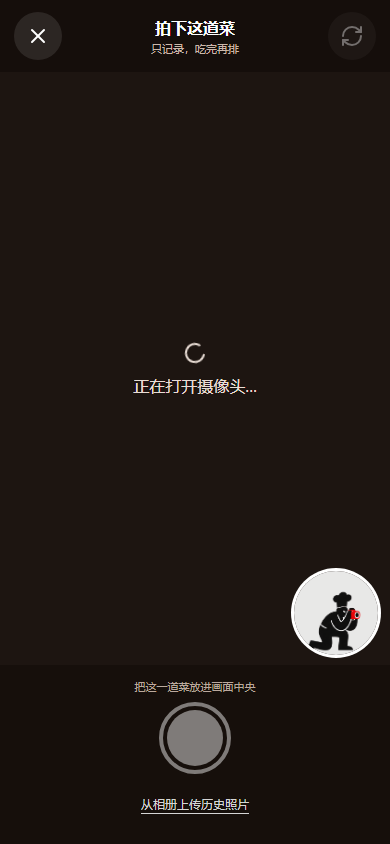
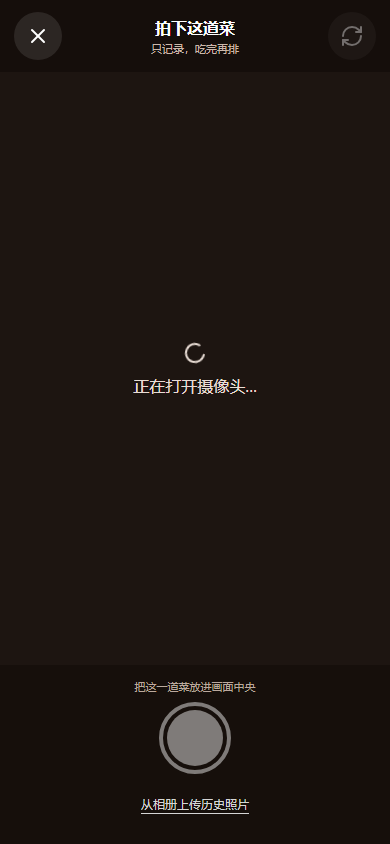
Remove miniature chef visuals

Changed region(s): [[0.7385, 0.6469, 0.9846, 0.8009]]

diff --git a/src/App.tsx b/src/App.tsx
@@ -28,7 +28,6 @@ import { useRegisterSW } from 'virtual:pwa-register/react'
 import { CameraCapture } from './components/CameraCapture'
 import { ImageCropper } from './components/ImageCropper'
 import { EntryDetail, type EntryContentChanges } from './components/EntryDetail'
-import { Mascot } from './components/Mascot'
 import { PhotoViewer } from './components/PhotoViewer'
 import { db, completeOnboarding, deleteEntry, friendlyStorageError, resetAllData, updateEntryContent } from './data/db'
 import { compressImageToWebP, readAsDataUrl, validateImageFile } from './lib/image'
@@ -132,7 +131,6 @@ function RecordHome({ draft, entries, onStart, onOpenCamera, onFile, onResume, o
   }, [onFile])
   return (
     <section>
-      <div className="section-mascot"><Mascot pose="camera" /></div>
       <PageHeader eyebrow="QUICK RECORD" title="拍下这道菜" description="只记录，吃完再排。" />
       <button className="capture-card" onClick={() => { onStart(); onOpenCamera() }} data-testid="start-record">
         <span className="capture-icon"><Camera size={30} /></span>
@@ -197,7 +195,6 @@ function SuggestionForm({ draft, busy, onChange, onBack, onConfirm }: {
     <section data-testid="suggestion-form">
       <button className="back-button" onClick={onBack}><ArrowLeft size={19} />返回</button>
       <div className="photo-hero compact"><img src={draft.image} alt="本次记录的美食" /></div>
-      <div className="ai-mascot"><Mascot pose="research" /></div>
       <div className="mock-badge"><Sparkles size={16} />{draft.providerLabel || 'AI 识别结果'} · 请核准</div>
       <PageHeader eyebrow="IDENTIFICATION REPORT" title={fields.name ? <>识别为：<span>{fields.name}</span></> : <>没有认准，请你定名</>} description="AI 负责辨认，不负责好不好吃。" />
       <div className="quick-form">
@@ -241,7 +238,6 @@ function ComparisonView({ draft, anchor, busy, onDecision }: {
         <span>最多 4 次</span>
       </div>
       <div className="progress-track"><span style={{ width: `${round * 25}%` }} /></div>
-      <div className="duel-mascots"><Mascot pose="left" /><Mascot pose="right" /></div>
       <PageHeader eyebrow={isBlack ? 'BLACK LIST VERDICT' : 'RED LIST VERDICT'} title="谁更值得留在前面？" description={isBlack ? '选择更该排在黑榜前面的那一道。' : '不打分，只做一次明确比较。'} />
       <div className="duel-grid">
         <button disabled={busy} className="food-choice" data-testid="choose-new" onClick={() => onDecision('left')}>
@@ -291,7 +287,6 @@ function ArchivePage({ entries, onDelete, onOpen, onViewPhoto }: { entries: Food
   const sorted = [...entries].sort((a, b) => b.occurredAt.localeCompare(a.occurredAt))
   return (
     <section>
-      <div className="section-mascot archive-mascot"><Mascot pose="waiting" /></div>
       <PageHeader eyebrow="FOOD ARCHIVE" title="我的食物档案" description={`${entries.length} 份在册记录 · 点击照片可放大`} />
       {sorted.length === 0 ? <EmptyState icon={Archive} title="还没有在册档案" body="提交第一张食物照片，建立标准记录。" /> : (
         <div className="timeline" data-testid="archive-list">
@@ -353,7 +348,7 @@ function RankingPage({ entries, groups, motion, onResume, onMove, onBestow, onSh
   return (
     <section data-testid="ranking-page" className={`editorial-ranking board-${board}`}>
       <header className="ranking-masthead">
-        <div className="ranking-brand"><Mascot pose="brand" /><div><strong>我的美食榜</strong><small>私人美食评审局</small></div></div>
+        <div className="ranking-brand"><div><strong>我的美食榜</strong><small>私人美食评审局</small></div></div>
         <b>{period === 'month' ? month.replace('-', '.') : period === 'year' ? year : 'LIFE'}</b>
       </header>
       <div className="board-switch" role="tablist" aria-label="红黑榜切换">
@@ -384,7 +379,7 @@ function RankingPage({ entries, groups, motion, onResume, onMove, onBestow, onSh
 
       {period !== 'life' && reportEntries.length > 0 && (
         <details className="taste-report" data-testid="taste-report">
-          <summary><span><small>{period === 'month' ? 'MONTHLY TASTE REPORT' : 'YEARLY TASTE REPORT'}</small><strong>{period === 'month' ? '本月味觉研究报告' : '年度味觉研究报告'}</strong></span><Mascot pose="report" /></summary>
+          <summary><span><small>{period === 'month' ? 'MONTHLY TASTE REPORT' : 'YEARLY TASTE REPORT'}</small><strong>{period === 'month' ? '本月味觉研究报告' : '年度味觉研究报告'}</strong></span></summary>
           <div className="report-bars">{reportGroups.map(([name, count]) => <div key={name}><span>{name}</span><i><b style={{ width: `${Math.max(8, Math.round(count / reportEntries.length * 100))}%` }} /></i><strong>{Math.round(count / reportEntries.length * 100)}%</strong></div>)}</div>
           <div className="report-stats"><div><strong>{reportEntries.length}</strong><span>道在榜</span></div><div><strong>{reportGroups.length}</strong><span>类味觉</span></div><div><strong>{Math.min(10, reportEntries.length)}</strong><span>道入十席</span></div></div>
         </details>
@@ -393,7 +388,6 @@ function RankingPage({ entries, groups, motion, onResume, onMove, onBestow, onSh
       {pending.length > 0 && (
         <div className="review-queue" data-testid="pending-list">
           <div><p className="eyebrow">AWAITING VERDICT</p><h2>{pending.length} 份记录等待裁定</h2></div>
-          <Mascot pose="waiting" className="queue-mascot" />
           {pending.map((entry) => (
             <article key={entry.id} className="review-card">
               <img src={entry.image} alt={entry.name} />
@@ -448,7 +442,7 @@ function BestowCeremony({ entry, rank, onClose, onConfirm }: {
     <section className="bestow-screen" data-testid="bestow-screen">
       <button className="bestow-close" onClick={onClose} aria-label="关闭赐名"><X /></button>
       <div className="bestow-index">TOP 10 / NO.{String(rank).padStart(2, '0')}</div>
-      <div className="bestow-heading"><Mascot pose="name" /><div><small>赐名仪式</small><strong>此味已入十席</strong></div></div>
+      <div className="bestow-heading"><div><small>赐名仪式</small><strong>此味已入十席</strong></div></div>
       <img src={entry.image} alt={entry.aiName || entry.name} />
       <p className="bestow-standard">STANDARD NAME<br /><strong>{entry.name}</strong></p>
       <div className="bestow-rule" />
@@ -470,7 +464,7 @@ function RankingCeremony({ board, rank, name, onClose }: { board: RankingBoard; 
   }, [rank, onClose])
   return (
     <div className={`ranking-ceremony ${board} ${level}`} data-testid="ranking-ceremony" role="dialog" aria-modal="true" aria-labelledby="ranking-ceremony-title" aria-describedby="ranking-ceremony-name">
-      {rank === 1 && <><div className="ceremony-scan" /><div className="ceremony-halo halo-one" /><div className="ceremony-halo halo-two" /><div className={`leader-emblem ${board}`} aria-hidden="true"><i /><i /><i /></div><Mascot pose={board === 'red' ? 'crown' : 'verdict'} className="ceremony-mascot" /><div className="apex-label">OFFICIAL CHANGE OF NO.01</div></>}
+      {rank === 1 && <><div className="ceremony-scan" /><div className="ceremony-halo halo-one" /><div className="ceremony-halo halo-two" /><div className={`leader-emblem ${board}`} aria-hidden="true"><i /><i /><i /></div><div className="apex-label">OFFICIAL CHANGE OF NO.01</div></>}
       <div className="ceremony-rule" />
       <span>{board === 'red' ? 'RED LIST VERDICT' : 'BLACK LIST VERDICT'}</span>
       <strong className="ceremony-rank">{String(rank).padStart(2, '0')}</strong>
@@ -501,7 +495,6 @@ function ProfilePage({ entries, events, onExport, onClear, onLoadDemo }: {
   const medianComparisons = median(completed.flatMap((event) => event.comparisonCount === undefined ? [] : [event.comparisonCount]))
   return (
     <section>
-      <div className="section-mascot"><Mascot pose="report" /></div>
       <PageHeader eyebrow="TASTE RESEARCH" title="我的味觉研究" description="只统计本机档案，不提供大众口味结论。" />
       <div className="dna-card">
         {dna.length === 0 ? <p>记录几道味道后，这里会长出你的味觉组成。</p> : dna.map((item, index) => (

diff --git a/src/styles.css b/src/styles.css
@@ -472,24 +472,14 @@ body { color: var(--charcoal); background: var(--paper); }
   *, *::before, *::after { scroll-behavior: auto !important; animation-duration: .01ms !important; animation-iteration-count: 1 !important; transition-duration: .01ms !important; }
 }
 
-/* Phase 1.2 · Miniature Chef Tribe */
-.chef-mascot { display: inline-block; width: 92px; aspect-ratio: 1; flex: 0 0 auto; background-repeat: no-repeat; background-size: 400% 300%; }
-.section-mascot { height: 72px; display: flex; justify-content: flex-end; margin-bottom: -54px; pointer-events: none; }
-.section-mascot .chef-mascot { width: 82px; }
-.ai-mascot { height: 72px; display: flex; justify-content: flex-end; margin: -12px 4px -45px 0; pointer-events: none; }
-.ai-mascot .chef-mascot { width: 88px; }
-.duel-mascots { height: 42px; display: flex; justify-content: space-between; margin: -8px 8% -30px; pointer-events: none; }
-.duel-mascots .chef-mascot { width: 88px; }
-.camera-mascot { position: absolute; z-index: 3; right: 12px; bottom: 10px; width: 84px; border-radius: 50%; background-color: rgba(255,255,255,.9); box-shadow: 0 0 0 3px #fff; }
+/* Phase 1.2 · Editorial archive */
 
 .ranking-masthead { align-items: center; }
 .ranking-brand { display: flex; align-items: center; gap: 8px; }
-.ranking-brand .chef-mascot { width: 48px; }
 .ranking-brand strong, .ranking-brand small { display: block; }
 .ranking-brand strong { font-size: 19px; letter-spacing: -.04em; }
 .ranking-masthead > b { align-self: center; color: var(--seal-red); font-size: 13px; }
 .review-queue { position: relative; overflow: hidden; }
-.queue-mascot { position: absolute; top: -12px; right: 4px; width: 78px; opacity: .92; pointer-events: none; }
 .rank-photo-button, .archive-photo-button, .rank-entry-button, .archive-entry-button { padding: 0; border: 0; color: inherit; background: transparent; text-align: left; }
 .rank-photo-button { grid-row: 1 / 3; width: 48px; height: 64px; overflow: hidden; }
 .rank-photo-button img { width: 100%; height: 100%; object-fit: cover; filter: saturate(.82) contrast(1.04); }
@@ -504,7 +494,6 @@ body { color: var(--charcoal); background: var(--paper); }
 .archive-entry-button { width: calc(100% - 28px); }
 .archive-entry-button h2 { margin: 0; }
 .archive-entry-button small { display: block; margin-top: 4px; color: #888; font-size: 10px; }
-.archive-mascot { margin-bottom: -58px; }
 
 .taste-report { margin: 4px 0 22px; border: 1px solid var(--charcoal); background: #fff; }
 .taste-report summary { min-height: 82px; display: flex; align-items: center; justify-content: space-between; padding: 8px 12px 8px 16px; cursor: pointer; list-style: none; }
@@ -512,7 +501,6 @@ body { color: var(--charcoal); background: var(--paper); }
 .taste-report summary small, .taste-report summary strong { display: block; }
 .taste-report summary small { margin-bottom: 5px; color: var(--seal-red); font-size: 8px; font-weight: 900; letter-spacing: .14em; }
 .taste-report summary strong { font-size: 18px; }
-.taste-report summary .chef-mascot { width: 72px; }
 .report-bars { display: grid; gap: 10px; padding: 4px 16px 18px; border-top: 1px solid #ddd; }
 .report-bars > div { display: grid; grid-template-columns: 64px minmax(0,1fr) 40px; align-items: center; gap: 8px; padding-top: 10px; font-size: 11px; }
 .report-bars i { height: 7px; overflow: hidden; background: #e9e9e9; }
@@ -551,7 +539,6 @@ body { color: var(--charcoal); background: var(--paper); }
 .detail-facts blockquote { margin: 0; padding: 18px; background: #fff; font-family: "Songti SC","STSong",serif; font-size: 17px; }
 .detail-facts .tag-row { padding: 14px; background: var(--paper); }
 .detail-bestow { min-height: 82px; display: flex; align-items: center; justify-content: center; gap: 6px; border: 1px solid var(--champagne); color: #6e592f; background: #fff; font-weight: 900; }
-.detail-bestow .chef-mascot { width: 72px; }
 .detail-edit-form { display: grid; gap: 13px; }
 .detail-edit-form label { display: grid; gap: 6px; font-size: 11px; font-weight: 800; }
 .detail-edit-form input, .detail-edit-form textarea, .detail-edit-form select { width: 100%; min-height: 48px; padding: 10px 12px; border: 1px solid #aaa; border-radius: 0; color: #111; background: #fff; font: inherit; }
@@ -571,18 +558,15 @@ body { color: var(--charcoal); background: var(--paper); }
 .viewer-controls button:disabled { opacity: .28; }
 
 .bestow-heading { min-height: 88px; display: flex; align-items: center; gap: 8px; }
-.bestow-heading .chef-mascot { width: 86px; }
 .bestow-heading small, .bestow-heading strong { display: block; }
 .bestow-heading small { color: var(--seal-red); font-size: 9px; letter-spacing: .16em; }
 .bestow-heading strong { margin-top: 5px; font-family: "Songti SC","STSong",serif; font-size: 26px; }
-.ceremony-mascot { position: absolute; z-index: -1; bottom: 5%; right: max(8px,calc(50% - 330px)); width: min(42vw,230px); opacity: .8; animation: miniature-arrive 1s .8s cubic-bezier(.16,.8,.2,1) both; }
 .leader-emblem { position: absolute; z-index: 2; top: 18%; left: 50%; width: 92px; height: 60px; transform: translateX(-50%); animation: crown-land .9s .85s cubic-bezier(.12,.9,.22,1) both; }
 .leader-emblem i { position: absolute; bottom: 0; width: 31px; height: 50px; background: var(--seal-red); clip-path: polygon(50% 0,100% 100%,0 100%); }
 .leader-emblem i:nth-child(1) { left: 0; transform: rotate(-12deg); }
 .leader-emblem i:nth-child(2) { left: 30px; height: 60px; }
 .leader-emblem i:nth-child(3) { right: 0; transform: rotate(12deg); }
 .leader-emblem.black i { background: #d7d7d7; clip-path: inset(0 5px 0); }
-@keyframes miniature-arrive { from { opacity: 0; transform: translateX(60px) rotate(8deg); } to { opacity: .8; transform: translateX(0) rotate(0); } }
 @keyframes crown-land { from { opacity: 0; transform: translate(-50%,-80px) scale(1.5); } 70% { opacity: 1; transform: translate(-50%,7px) scale(.92); } to { opacity: 1; transform: translate(-50%,0) scale(1); } }
 
 @media (min-width: 640px) {
@@ -591,9 +575,8 @@ body { color: var(--charcoal); background: var(--paper); }
 @media (max-width: 370px) {
   .archive-photo-button { width: 88px; height: 108px; }
   .detail-form-grid { grid-template-columns: 1fr; }
-  .chef-mascot { width: 76px; }
 }
 @media (prefers-reduced-motion: reduce) {
   .photo-viewer-stage img { transition: none; }
-  .ceremony-mascot, .leader-emblem { animation: none; }
+  .leader-emblem { animation: none; }
 }

diff --git a/src/components/EntryDetail.tsx b/src/components/EntryDetail.tsx
@@ -1,7 +1,6 @@
 import { useEffect, useRef, useState } from 'react'
 import { Camera, Check, ImagePlus, Maximize2, PenLine, X } from 'lucide-react'
 import type { Emotion, FoodEntry } from '../types'
-import { Mascot } from './Mascot'
 
 export type EntryContentChanges = Pick<FoodEntry, 'name' | 'location' | 'occurredAt' | 'cuisine' | 'tags' | 'emotion'> & Partial<Pick<FoodEntry, 'type' | 'foodGroup' | 'diet' | 'note'>>
 
@@ -73,7 +72,7 @@ export function EntryDetail({ entry, topTen, onClose, onViewPhoto, onSave, onCho
           <div><small>MOOD</small><strong>{entry.emotion}</strong></div>
           {entry.note && <blockquote>{entry.note}</blockquote>}
           <div className="tag-row">{entry.tags.map((tag) => <span key={tag}>#{tag}</span>)}</div>
-          {topTen && <button className="detail-bestow" onClick={onBestow}><Mascot pose="name" />{entry.bestowedName ? '重新赐名' : '此味已入十席 · 现在赐名'}</button>}
+          {topTen && <button className="detail-bestow" onClick={onBestow}>{entry.bestowedName ? '重新赐名' : '此味已入十席 · 现在赐名'}</button>}
         </div>
       )}
     </section>

diff --git a/src/components/CameraCapture.tsx b/src/components/CameraCapture.tsx
@@ -1,6 +1,5 @@
 import { useCallback, useEffect, useRef, useState } from 'react'
 import { Camera, LoaderCircle, RefreshCw, X } from 'lucide-react'
-import { Mascot } from './Mascot'
 
 type CameraStatus = 'starting' | 'ready' | 'capturing' | 'error'
 
@@ -117,7 +116,6 @@ export function CameraCapture({ onCapture, onClose }: { onCapture: (file: File) 
         {status === 'starting' && <div className="camera-state"><LoaderCircle className="spin" /><span>正在打开摄像头…</span></div>}
         {status === 'error' && <div className="camera-state error"><Camera /><strong>摄像头没有打开</strong><span>{error}</span><button className="button secondary" onClick={() => void startCamera(facingMode)}>重新尝试</button><button className="text-button" onClick={close}>进入榜单</button></div>}
         <div className="camera-guide" aria-hidden="true" />
-        <Mascot pose="camera" className="camera-mascot" />
       </div>
       <div className="camera-controls">
         <span>把这一道菜放进画面中央</span>

diff --git a/docs/qa/phase-1.2/README.md b/docs/qa/phase-1.2/README.md
@@ -2,7 +2,7 @@
 
 Captured from the production build at a 390 × 844 CSS-pixel viewport on 2026-09-02.
 
-- `camera-390.png`: cold-start camera state with miniature-chef capture guidance.
+- `camera-390.png`: cold-start camera state and capture guidance.
 - `ranking-390.png`: red life ranking with the new black/white/red editorial layout and local demo data.
 - `detail-390.png`: full food archive detail with expandable photo and editable metadata entry point.
 
